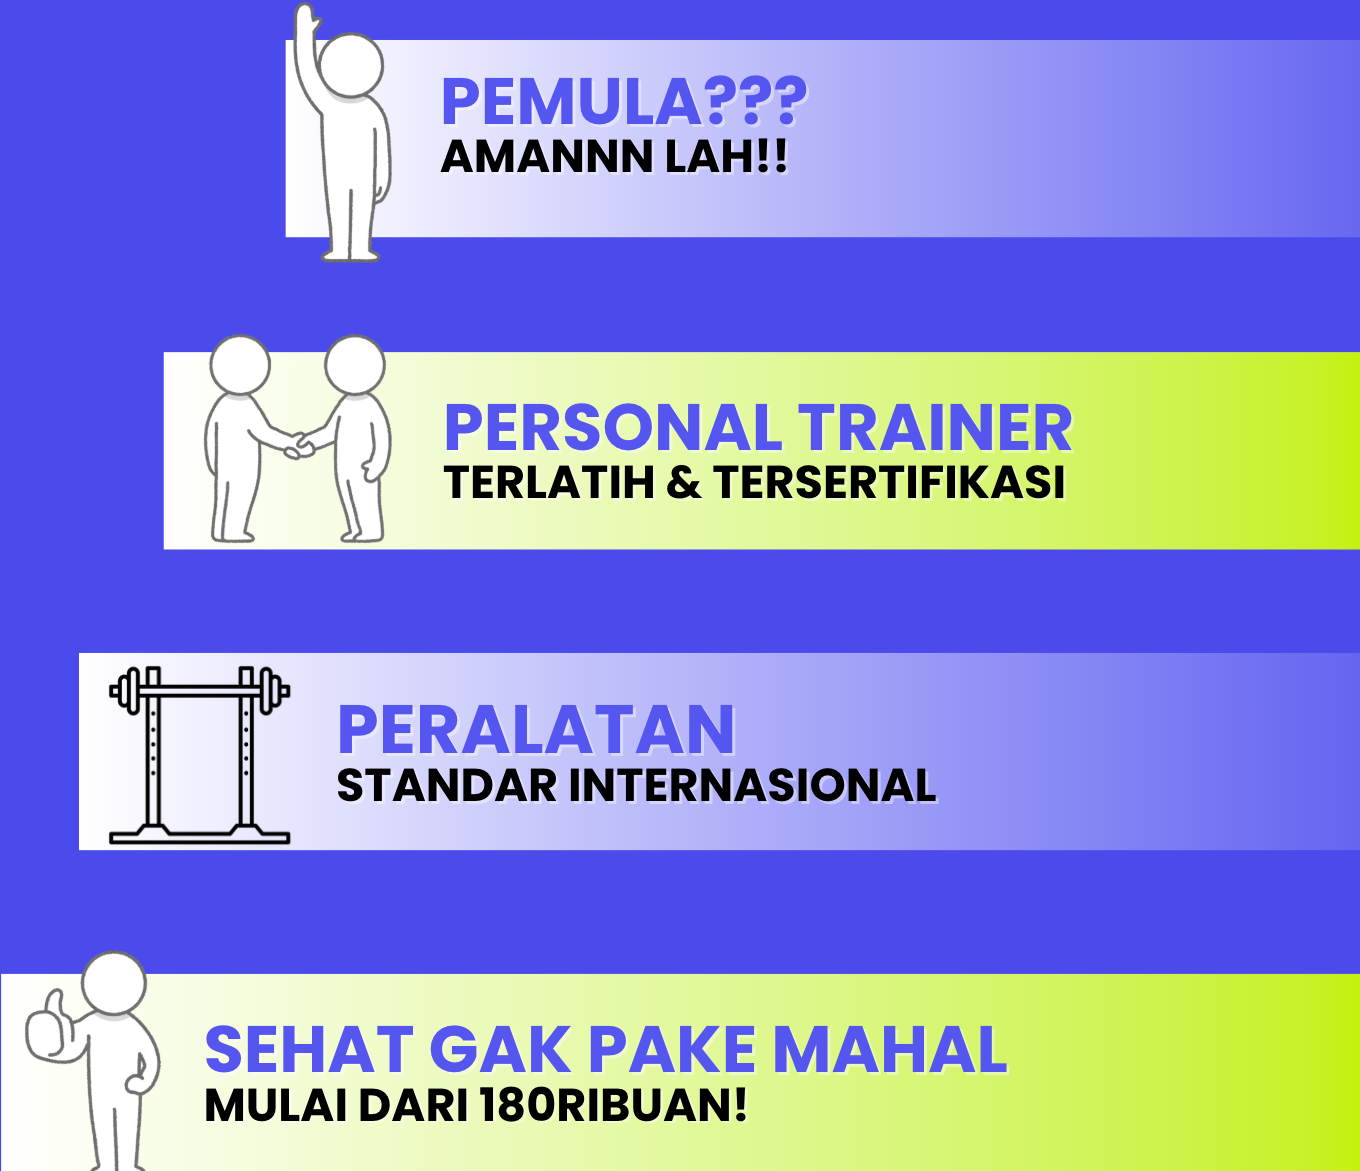
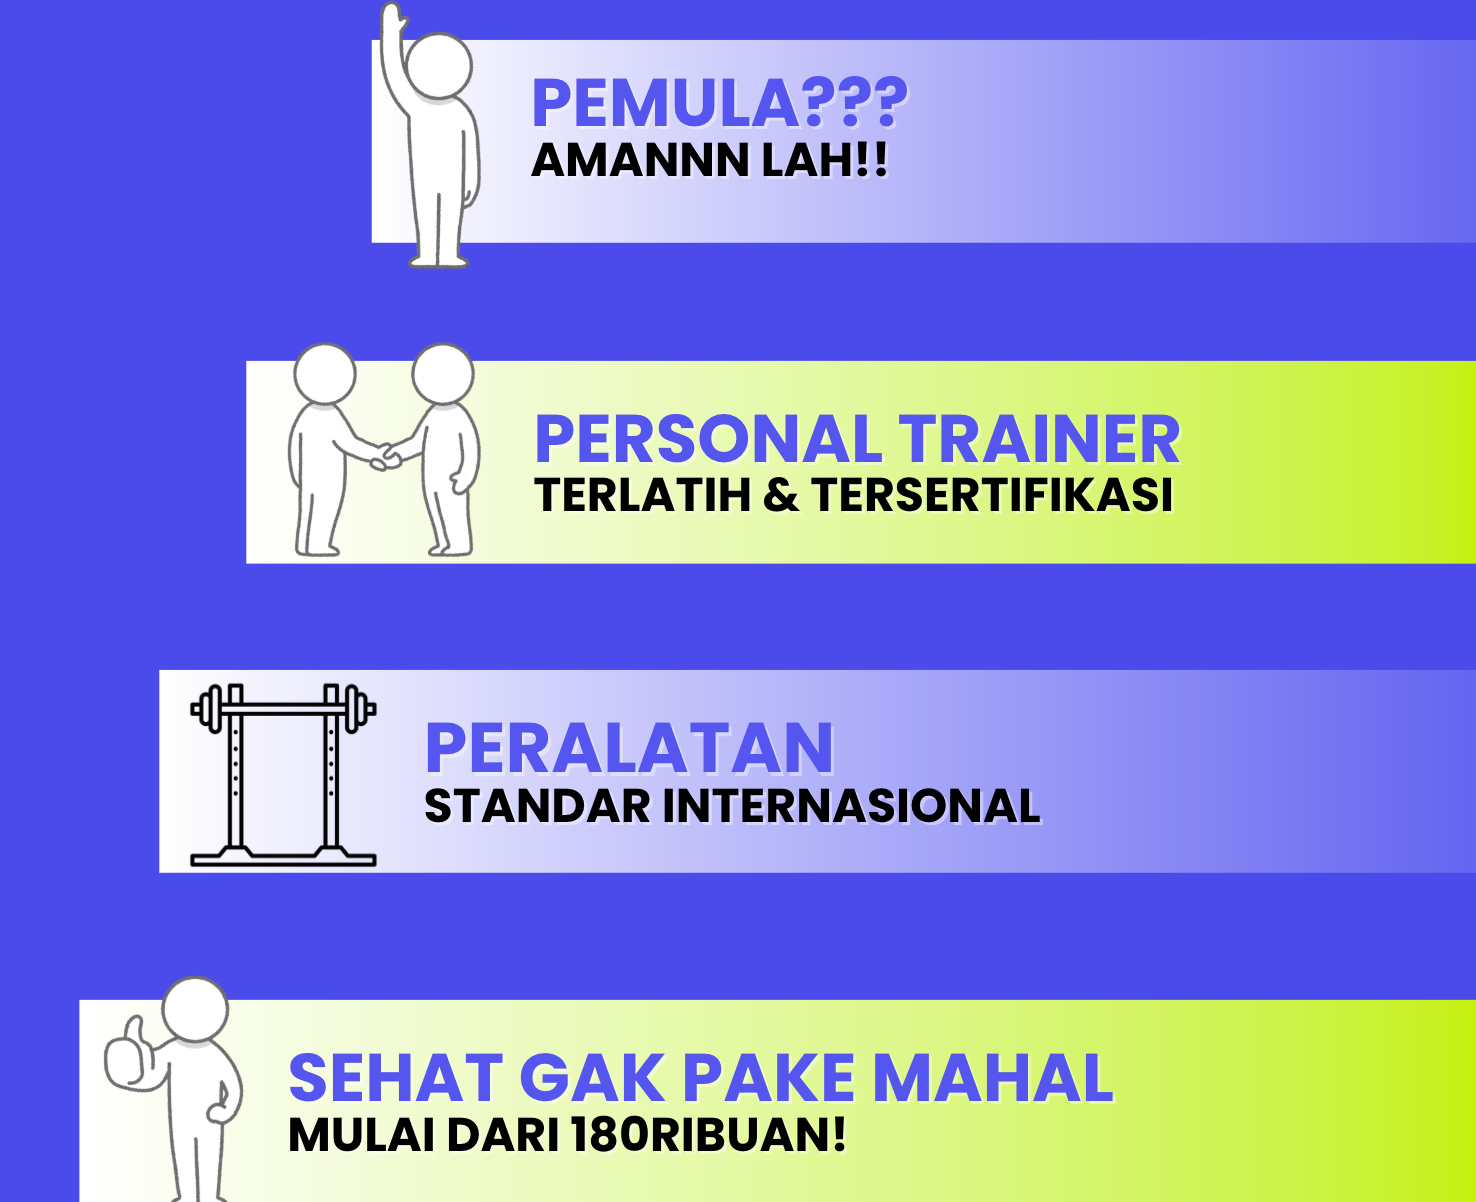
v20 update kenapa mulai

diff --git a/templates/home.html b/templates/home.html
@@ -5,7 +5,7 @@
 
 {% block content %}
 <!-- Hero Section -->
-<section id="home" style="min-height: 100vh; padding-top: 80px; padding-bottom: 30px; text-align: center; color: white; position: relative; overflow: hidden;">
+<section id="home" style="min-height: 100vh; padding-top: 80px; padding-bottom: 0px; text-align: center; color: white; position: relative; overflow: hidden;">
     <img src="{% static 'images/wave.png' %}" alt="Wave Background" class="full-width-img" style="position: absolute; bottom: 13%; left: 0; height: 20%; width: 100%; z-index: 0;">
     <div class="container-fluid px-4" style="position: relative; z-index: 1;">
         <img src="/static/images/karena_hidup_sehatmu.png" alt="KARENA HIDUP SEHATMU" style="max-width: 80%; height: auto; margin-bottom: 0rem; margin-top: 1rem;">
@@ -40,18 +40,15 @@
 </section>
 
 <!-- Kenapa Mulai Gym Section -->
-<section id="kenapa-mulai" class="feature-section" style="min-height: 100vh; padding-top: 40px; padding-bottom: 30px; text-align: center; color: white; position: relative; overflow: hidden;">
+<section id="kenapa-mulai" class="feature-section" style="min-height: 100vh; padding-top: 10px; padding-bottom: 30px; text-align: center; color: white; position: relative; overflow: hidden;">
     <div class="container-fluid px-4">
-        <img src="{% static 'images/kenapa_mulai_gym.png' %}" alt="Kenapa Mulai Gym?" class="img-fluid mx-auto d-block mb-4" style="max-width: 67%; margin-top: -30px;">
+        <img src="{% static 'images/kenapa_mulai_gym.png' %}" alt="Kenapa Mulai Gym?" class="img-fluid mx-auto d-block mb-4" style="max-width: 67%;">
         
         <div class="text-center mb-5">
             <img src="{% static 'images/visi.png' %}" alt="Visi Mulai Gym" class="img-fluid mx-auto d-block" style="max-width: 95%;">
         </div>
 
-        <div class="position-relative" style="margin: 2rem 0;">
-            <img src="{% static 'images/kenapa_mulai_3.png' %}" alt="Kenapa Mulai Gym 3" style="position: absolute; left: 0; width: 100%; z-index: 0;">
-        </div>
-
+        <img class="full-width-img" src="{% static 'images/kenapa_mulai_3.png' %}" alt="Pemula aman, Trainer terlatih, Peralatan internasional, Mulai dari 180 ribu!" style="position: absolute; left: 0; width: 100%; z-index: 0; margin-top: -20px;">
     </div>
 </section>
 

diff --git a/templates/base.html b/templates/base.html
@@ -7,7 +7,7 @@
     <meta name="viewport" content="width=device-width, initial-scale=1">
     <link href="https://cdn.jsdelivr.net/npm/bootstrap@5.3.0/dist/css/bootstrap.min.css" rel="stylesheet">
     <link rel="stylesheet" href="https://cdnjs.cloudflare.com/ajax/libs/font-awesome/6.4.0/css/all.min.css">
-    <link rel="stylesheet" href="{% static 'css/style.css' %}?v=19">
+    <link rel="stylesheet" href="{% static 'css/style.css' %}?v=20">
     
     <link rel="icon" type="image/png" href="{% static 'favicons/favicon-96x96.png' %}" sizes="96x96" />
     <link rel="icon" type="image/svg+xml" href="{% static 'favicons/favicon.svg' %}" />
